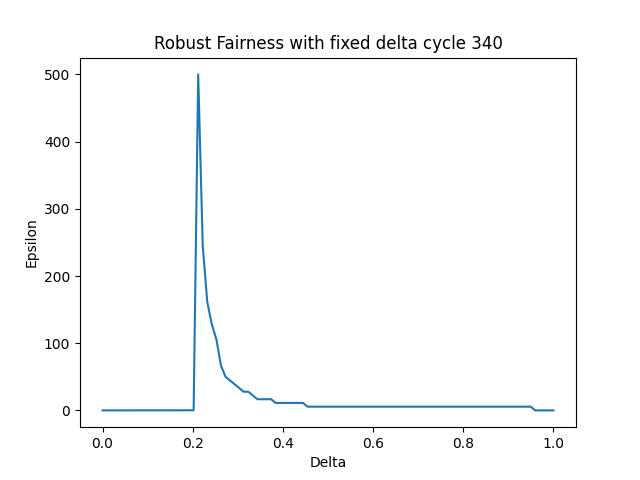
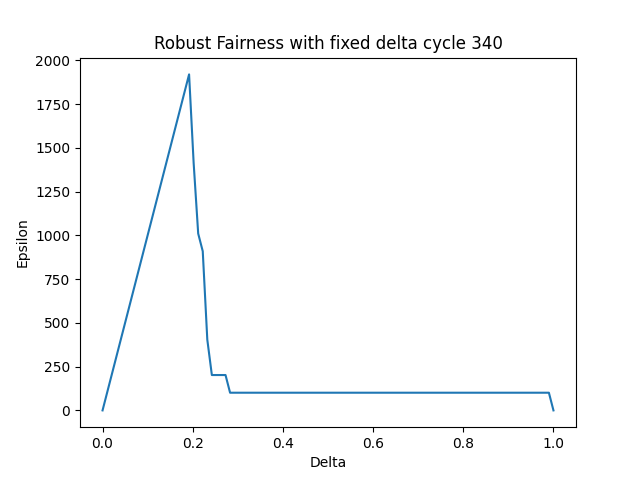
debugged robust fairness

diff --git a/tezos_analysis.py b/tezos_analysis.py
@@ -424,8 +424,8 @@ def plot_exp_fairness_overview(cycle_total_reward_dict, baker_initial_cycle_dict
     """avg, 5% quantile, 95% quantile and median in one plot"""
     x_data = list(range(0, 398))
     y1_data = compute_expectational_fairness_avg(cycle_total_reward_dict, baker_initial_cycle_dict,
-                                                         baker_initial_reward_dict,
-                                                         cycle_list_of_active_bakers_dict)
+                                                 baker_initial_reward_dict,
+                                                 cycle_list_of_active_bakers_dict)
     plt.plot(x_data, y1_data, label='Avg')
     y2_data = compute_expectational_fairness_x_quantile(0.05, cycle_total_reward_dict, baker_initial_cycle_dict,
                                                         baker_initial_reward_dict, cycle_list_of_active_bakers_dict)
@@ -505,13 +505,91 @@ def get_stakes_and_fractions(cycle):
     return initial_stakes, fractions
 
 
-# TODO: debug robust fairness
+def get_bakers_initial_rewards_at_cycle(cycle):
+    # initialize initial bakers and rewards array
+    bakers = get_baker_at_cycle(0)
+    rewards = get_income_at_cycle(0)
+    initial_totals = [cur.execute('SELECT SUM(total_income) from income_table where cycle=0').fetchall()[0][0]] * 8
+    current_bakers = get_baker_at_cycle(cycle)
+    # for every cycle from 0 to cycle, check if baker already exist, if not add it and add its initial_reward
+    for c in range(0, cycle + 1):
+        new_bakers = get_baker_at_cycle(c)
+        for baker in new_bakers:
+            if not baker in bakers:
+                bakers.append(baker)
+                baker_reward = cur.execute(
+                    'SELECT total_income from income_table where address="%s" and cycle=%s' % (baker, c)).fetchall()[0][
+                    0]
+                rewards.append(baker_reward)
+                c_total = cur.execute('SELECT SUM(total_income) from income_table where cycle=%s' % c).fetchall()[0][0]
+                initial_totals.append(c_total)
+
+    # Remove the bakers that occur from cylces 0 to current but are not active in current
+    bakers_to_remove = list(set(current_bakers).symmetric_difference(set(bakers)))
+    remove_indexes = []
+    if not bakers_to_remove == []:
+        for b in bakers_to_remove:
+            index = bakers.index(b)
+            remove_indexes.append(index)
+
+        for index in remove_indexes:
+            del (bakers[index])
+            del (initial_totals[index])
+            del (rewards[index])
+    return bakers, rewards, initial_totals
+
+
+def compute_robust_fairness_old(cycle, Deltas=np.linspace(0, 1, 100)):
+    initial_bakers, initial_rewards, initial_totals = get_bakers_initial_rewards_at_cycle(cycle)
+    EPS = np.empty([100])
+    # Deltas = np.linspace(0, 1, 100)
+    Epsilons = np.linspace(0, 10000, 100)
+
+    initial_stakes = []  # check if this array has correct length
+    n = len(initial_rewards)
+    for i in range(0, n):
+        if initial_totals[i] == 0:
+            init_stake = 0
+        else:
+            init_stake = initial_rewards[i] / initial_totals[i]
+        initial_stakes.append(init_stake)
+
+    # fractions gamma_a
+    rewards_array = get_income_at_cycle(cycle)  # length of num_bakers at cycle (for ex at cycle 5 this has length 8)
+    fractions = []  # reward at cycle x divided by total_reward at cycle_x, same length as rewards_array
+    total_reward = cur.execute('select sum(total_income) from income_table where cycle=%s' % cycle).fetchall()[0][0]
+    for r in rewards_array:
+        if total_reward == 0:
+            fraction_r = 0
+        else:
+            fraction_r = r / total_reward
+        fractions.append(fraction_r)
+
+    # convert initial_rewards and fractions to float array
+    initial_stakes = np.fromiter(initial_stakes, dtype=float)  # length of num bakers at cycle 0
+    fractions = np.fromiter(fractions, dtype=float)  # length of num bakers at cycle (i.e. current cycle)
+
+    for idx, delta in enumerate(Deltas):
+        for eps in Epsilons:
+            low_eps = (1 - eps) * initial_stakes <= fractions
+            high_eps = fractions <= (1 + eps) * initial_stakes
+            Freq = low_eps * high_eps
+            Pr = sum(Freq) / len(fractions)
+            if Pr >= 1 - delta:
+                EPS[idx] = eps
+                break
+    # print('EPS', EPS)
+    # print("The bakers put " + str(round(sum(initial_stakes), 4) * 100) + "% of the stakes and received " + str(
+    #    round(sum(fractions), 4) * 100) + "% of the rewards")
+    return Deltas, EPS
+
+
+# old implementation -> this way we need to high EPS to satisfy equation
 def compute_robust_fairness(cycle, Deltas=np.linspace(0, 1, 100)):
     """Robust fairness for one specific cycle and all bakers"""
-    # EPS = np.empty([100])
+    # Note: for some cycles like 130 the EPS value would need to be immensly high to satisfy this
     EPS = np.linspace(0, 1, 100)
-    # Deltas = np.linspace(0, 1, 100)
-    Epsilons = np.linspace(0, 550, 100)
+    Epsilons = np.linspace(0, 10000, 100)
 
     initial_stakes, fractions = get_stakes_and_fractions(cycle)
     initial_stakes = np.fromiter(initial_stakes, dtype=float)  # length of num bakers at cycle 0
@@ -525,8 +603,17 @@ def compute_robust_fairness(cycle, Deltas=np.linspace(0, 1, 100)):
             if Pr >= 1 - delta:
                 EPS[idx] = eps
                 break
-    # TODO: check delta and eps values at the beginning -> very high eps values needed
     return Deltas, EPS
+
+
+def plot_robust_fairness_old(cycle):
+    x_data, y_data = compute_robust_fairness_old(cycle)
+    plt.plot(x_data, y_data)
+    plt.title('Robust Fairness with fixed delta cycle ' + str(cycle))
+    plt.xlabel('Delta')
+    plt.ylabel('Epsilon')
+    plt.savefig('images/robust_fairness/robust_fairness_cycle_' + str(cycle) + '.png')
+    plt.close()
 
 
 def plot_robust_fairness(cycle):
@@ -535,7 +622,7 @@ def plot_robust_fairness(cycle):
     plt.title('Robust Fairness with fixed delta cycle ' + str(cycle))
     plt.xlabel('Delta')
     plt.ylabel('Epsilon')
-    plt.savefig('images/robust_fairness/robust_fairness_cycle_' + str(cycle) + '.png')
+    plt.savefig('images/robust_fairness/robust_fairness_old_cycle_' + str(cycle) + '.png')
     plt.close()
 
 
@@ -786,11 +873,6 @@ if __name__ == '__main__':
                                                                   baker_initial_reward_dict,
                                                                   cycle_list_of_active_bakers_dict)
 
-    # TODO: debug this here below
-    # plot_robust_fairness(130)
-    # plot_robust_fairness(50)
-    # plot_robust_fairness(200)
-
     # Exp. Fairness overview plot (avg, lowest 5% resp. 1%, highest 5% resp. 1% in one plot)
     plot_exp_fairness_overview(cycle_total_reward_dict, baker_initial_cycle_dict,
                                baker_initial_reward_dict,
@@ -806,14 +888,16 @@ if __name__ == '__main__':
 
     # expectational fairness at individual cycles for all bakers, look at cycles in each era
     # TODO: note if there are differences among the eras, compare several cycles in different eras
-    era_cycles = [130, 200, 250, 300, 340, 370, 395]
+    era_cycles = [50, 130, 200, 250, 300, 340, 370, 395]
     for cycle in era_cycles:
         plot_expectational_fairness_onecycle(cycle, cycle_total_reward_dict, baker_initial_cycle_dict,
                                              baker_initial_reward_dict, cycle_list_of_active_bakers_dict)
 
-    # Robust fairness (we fix delta and a specific cycle and find epsilon)
-    plot_robust_fairness(1)  # we look at cycle 1 as there we have the same bakers as in cycle 0
-    plot_robust_fairness(5)
+    # Robust fairness (we fix delta and a specific cycle and find epsilon) Note: for robust fairness cycles higher
+    # than 6 we have very high EPS values and therefore plots look wrong at first sight
+    plot_robust_fairness_old(6)
+    plot_robust_fairness_old(50)
+    plot_robust_fairness(50)
     plot_robust_fairness(6)
     # plot a robust fairness for every era (one cycle in each era)
     for c in era_cycles:
@@ -823,8 +907,6 @@ if __name__ == '__main__':
     # TODO: comment this out as it takes long
     # plot_robust_fairness_aoc(0, 5)  # works for every cycle (for initial value we take the value in prev. cycle)
     # plot_robust_fairness_aoc(0, 398)
-
-    # TODO: 3) Compute robust fairness_quantile_x
 
     # Compute mean reward plot, i.e. cycles on x axis, percentage of total reward on y axis, plot a line with the mean
     # reward over all bakers in red and the relative rewards for all bakers per cycle on the y axis
